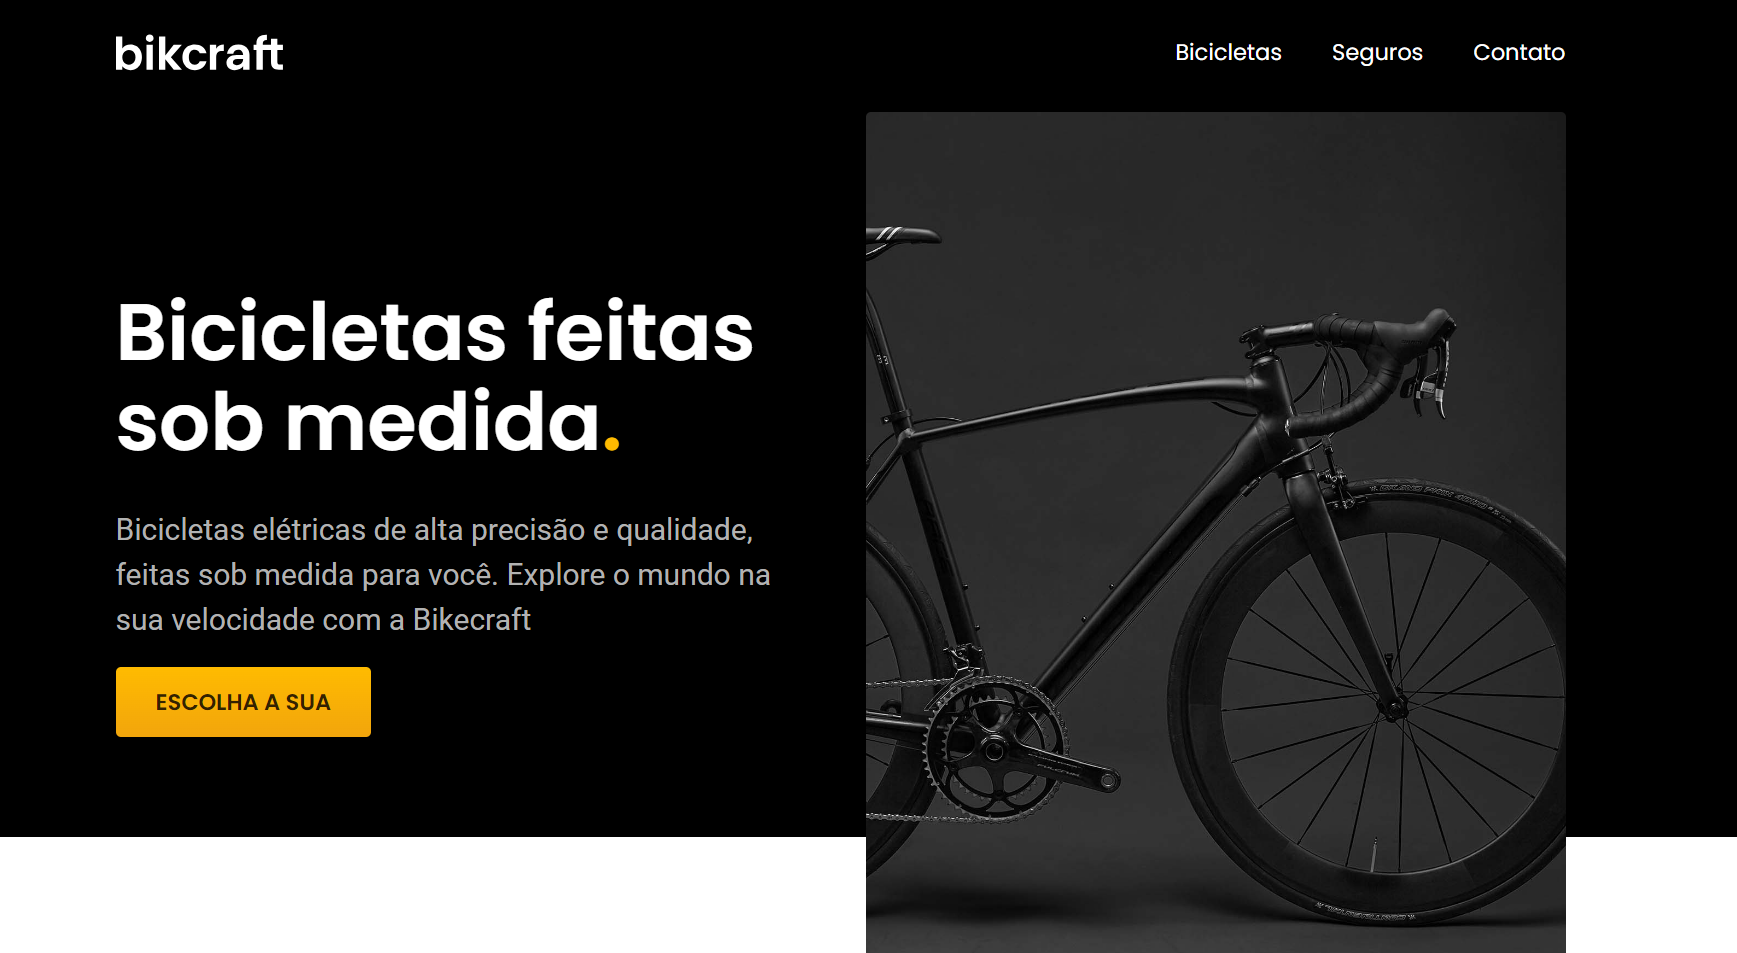
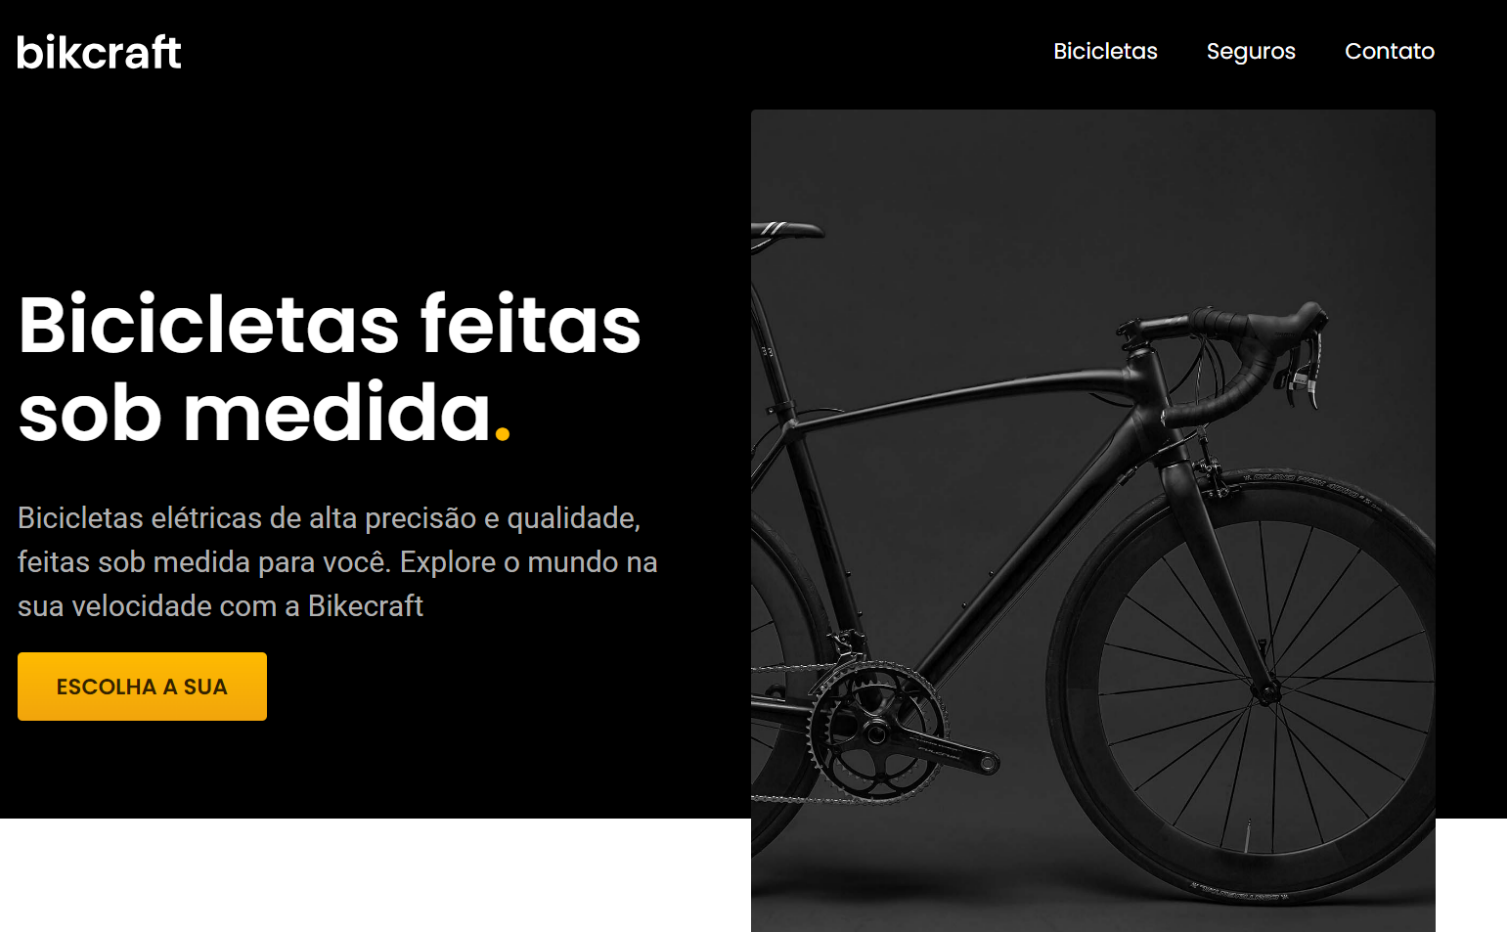
redimensionando a imagem do projeto bikecraft

diff --git a/index.html b/index.html
@@ -116,7 +116,24 @@
               <p>É um projeto aparentimente simples, mas que contem muita complexidade e diversas teclogias diferentes com JavaScript. Encontrando Scroll suave, Slide, Json, API Bitcoin, Regex entre outros.</p>
             </div>
           </li>
-          <li><img src="./css/img/img-projetos/bikecraft.png" alt="projeto bikecraft"></li>
+          <li><img src="./css/img/img-projetos/bikecraft.png" alt="projeto bikecraft">
+            <div class="projetos-hover">
+              <h1>bikecraft</h1>
+              <div class="projetos-tech">
+                <span>Nível de Complexidade: <span class="facil">+</span><span class="medio">+</span></span>
+                <div class="projetos-tech-icon">
+                  <img src="./css/img/img-skills/html.svg" alt="">
+                  <img src="./css/img/img-skills/css.svg" alt="">
+                  <img src="./css/img/img-skills/javascript.svg" alt="">
+                </div>
+              </div>
+              <div class="projetos-links">
+                <a href="https://github.com/V-Matheus/animais-fantasticos" target="_blank" rel="noopener noreferrer">Repositório</a>
+                <a href="https://v-matheus.github.io/animais-fantasticos/" target="_blank" rel="noopener noreferrer">Projeto</a>
+              </div>
+              <p>O meu primeiro projeto de E-Comerce, relativamente simples por não ter tanta complexidade com o JavaScript, mas completo nos sentidos visuais .</p>
+            </div>
+          </li>
         </ul>
       </div>
 
